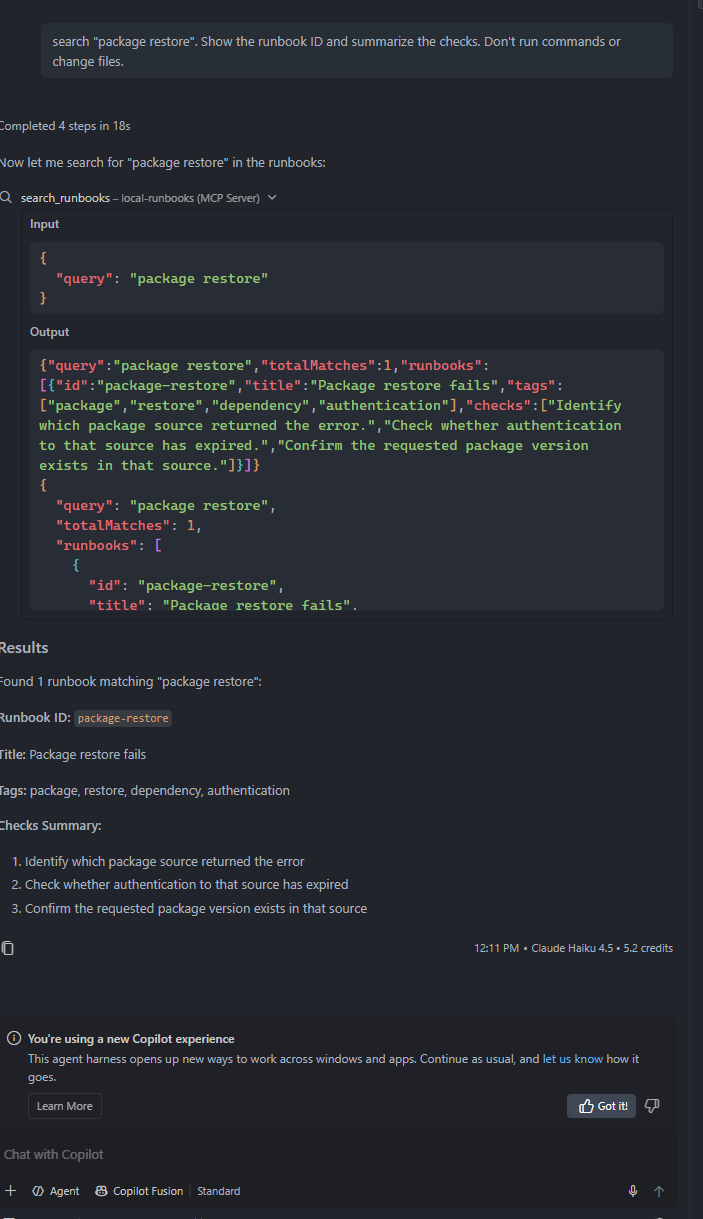
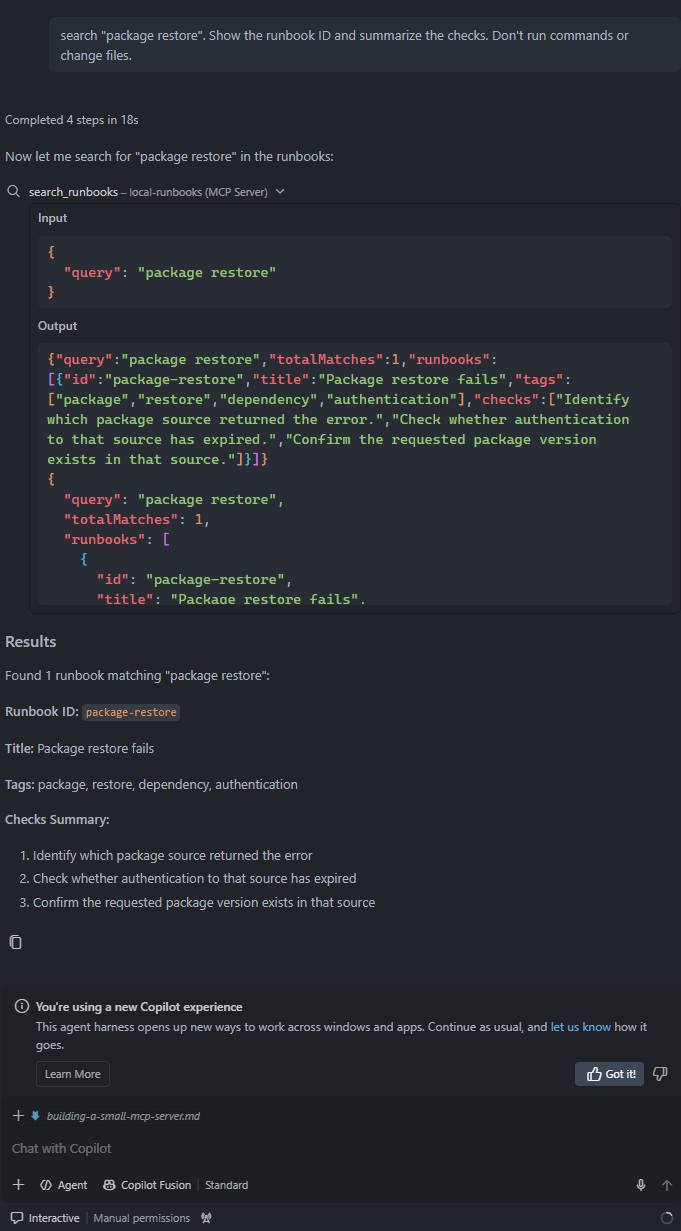
Updating images and post

diff --git a/src/posts/building-a-small-mcp-server.md b/src/posts/building-a-small-mcp-server.md
@@ -208,7 +208,7 @@ Alternatively, you can edit your mcp.json  as in:
 }
 ```
 
-The configuration choices depend on your VS Code version and agent harness. I prefer the guided flow here because the supported MCP configuration format isn't identical across every client. and start the mcp server ( you can use ctrl+p to launch the command selector in vs code; list the mcp server and run it. Or you can open the mcp.json file itself and run it directory on vscode) 
+The configuration choices depend on your VS Code version and agent harness. I prefer the guided flow here because the supported MCP configuration format isn't identical across every client. and start the mcp server ( you can use **CTRL+P** to launch the command selector in vs code; then expand *MCP: List Servers* and run it. Or you can open the mcp.json file itself and run it directory on vscode) 
 
 ![Running the mcp server directly in vscode](/assets/img/mcp-server-running.png)
 
@@ -218,9 +218,8 @@ Now ask the agent something specific:
 
 The important part is the **tool call**, not just the final answer. Expand the call in chat and check which tool was invoked and what it returned.
 
-![Agent run in vscode](/assets/img/agent-run.png)
 
-For the sample data, the result will contain something like:
+For the sample data, the result will contain something like ( shown in the screenshot below):
 
 ```json
 {
@@ -236,6 +235,7 @@ For the sample data, the result will contain something like:
   ]
 }
 ```
+      ![Agent run in vscode](/assets/img/agent-run.png)
 
 I've shortened the checks in that example. The real response contains all three.
 
